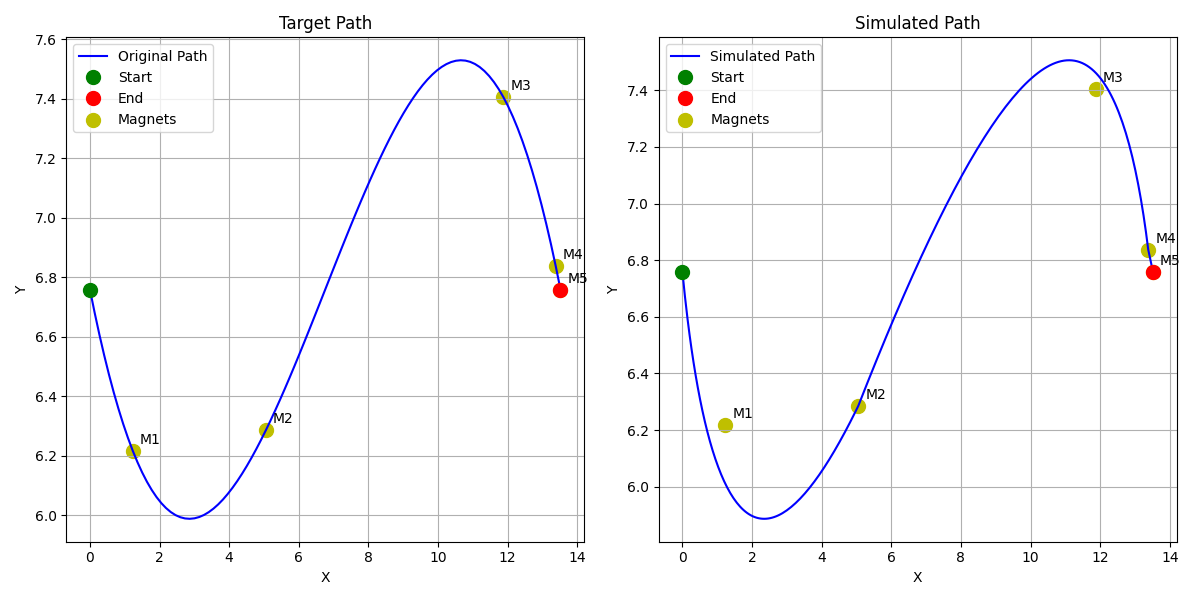
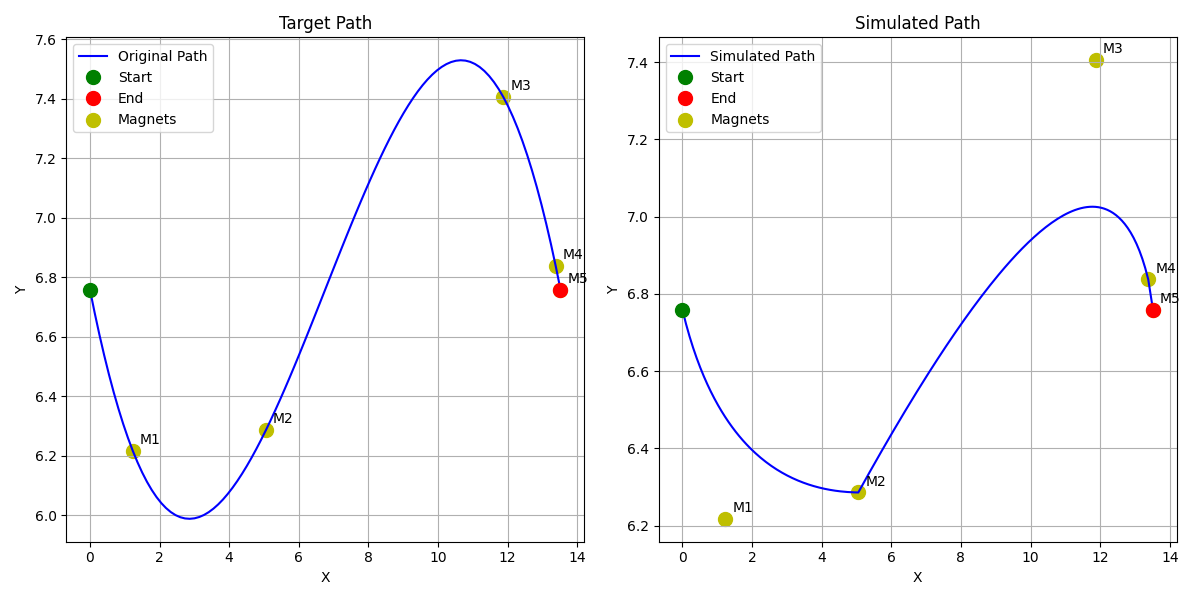
more fixes

diff --git a/chromosome.py b/chromosome.py
@@ -1,4 +1,4 @@
-from utils import MAX_STRENGTH, MASS, coordinate_percentage, round_based_on_value
+from utils import MAX_STRENGTH, MASS, smoothen_path
 
 import numpy as np
 from magnet import Magnet
@@ -14,41 +14,27 @@ class Chromosome:
             "magnets": [m.to_dict() for m in self.magnets],
         }
 
-    def calculate_curve_control_point(self, start, end, magnet):
+    def generate_arc(self, start, end, magnet, num_points=100):
         magnet_pos = np.array(magnet.to_tuple())
+        normalized_strength = magnet.magnetic_strength / MAX_STRENGTH
 
-        # Calculate the point on the line closest to the magnet
         line_vector = end - start
         t = np.dot(magnet_pos - start, line_vector) / np.dot(line_vector, line_vector)
-        t = max(0, min(1, t))  # Clamp t between 0 and 1
-        closest_point = start + t * line_vector
+        intersection_percent = np.clip(t, 0, 1)
 
-        direction_to_magnet = magnet_pos - closest_point
-        direction_to_magnet = direction_to_magnet / np.linalg.norm(direction_to_magnet)
+        closest_point = start + intersection_percent * line_vector
+        to_magnet = magnet_pos - closest_point
+        control_point = closest_point + normalized_strength * to_magnet
 
-        # Adjust curve based on magnet strength and distance
-        curve_factor = magnet.magnetic_strength / MAX_STRENGTH
-        distance_factor = 1 / (
-            1 + np.linalg.norm(magnet_pos - closest_point)
-        )  # Inverse distance
-        max_curve_distance = np.linalg.norm(end - start) / 2
-        curve_distance = curve_factor * distance_factor * max_curve_distance
-
-        # Calculate control point
-        control_point = closest_point + direction_to_magnet * curve_distance
-
-        return control_point, t
-
-    def generate_bezier_curve(self, start, control, end, num_points=100):
-        curve = []
+        arc_points = []
         for t in np.linspace(0, 1, num_points):
-            point = (1 - t) ** 2 * start + 2 * (1 - t) * t * control + t**2 * end
-            curve.append(point)
-        return curve
+            point = (1 - t) ** 2 * start + 2 * (1 - t) * t * control_point + t**2 * end
+            arc_points.append(point)
+
+        return smoothen_path(arc_points), intersection_percent
 
     def simulate_path(self, target_path):
         start = target_path[0]
-        end = target_path[-1]
         ball_pos = np.array(start)
         simulated_path = [ball_pos]
 
@@ -100,16 +86,12 @@ class Chromosome:
                         end_pos = simulated_path[-1]
                         curve_magnet = self.magnets[idx - 1]
 
-                        curve_control, percent = self.calculate_curve_control_point(
+                        curved_path, percent = self.generate_arc(
                             start_pos, end_pos, curve_magnet
                         )
 
                         duration = m.end_time - m.start_time
                         curve_end_time = (duration * percent) + m.start_time
-
-                        curved_path = self.generate_bezier_curve(
-                            start_pos, curve_control, end_pos
-                        )
 
                         start_idx = np.where((simulated_path == start_pos).all(axis=1))[
                             0
@@ -130,34 +112,3 @@ class Chromosome:
                 simulated_path.append(ball_pos.copy())
 
         return simulated_path
-
-        # for
-
-        # Calculate the bounding box of the target path
-        # x_min = min(point[0] for point in target_path)
-        # x_max = max(point[0] for point in target_path)
-        # y_min = min(point[1] for point in target_path)
-        # y_max = max(point[1] for point in target_path)
-
-        # margin = 0.1  # 10% margin
-        # x_range = x_max - x_min
-        # y_range = y_max - y_min
-        # x_min -= margin * x_range
-        # x_max += margin * x_range
-        # y_min -= margin * y_range
-        # y_max += margin * y_range
-
-        #         # Check if the ball has overshot the bounding box
-        #         if (
-        #             ball_pos[0] < x_min
-        #             or ball_pos[0] > x_max
-        #             or ball_pos[1] < y_min
-        #             or ball_pos[1] > y_max
-        #         ):
-        #             return simulated_path
-
-        #         if (
-        #             np.dot(ball_pos - np.array(end), np.array(end) - np.array(start))
-        #             >= 0
-        #         ):
-        #             return simulated_path

diff --git a/differential_model.py b/differential_model.py
@@ -8,8 +8,8 @@ import json
 
 class DifferentialModel:
     def __init__(self, target_path, magnet_attributes, time_step=0.01):
-        self.population_size = 10
-        self.F = 0.1  # Differential weight
+        self.population_size = 25
+        self.F = 0.7  # Differential weight
         self.CR = 0.8  # Crossover rate
         self.stagnation_limit = 10
 
@@ -30,7 +30,7 @@ class DifferentialModel:
                 {"generation": self.generation, "fitness": float(fitness_score)}
             )
 
-    def differential_evolution(self, max_generations=1):
+    def differential_evolution(self, max_generations=100):
         generations_without_improvement = 0
 
         for _ in range(max_generations):
@@ -42,7 +42,6 @@ class DifferentialModel:
             gen_best_individual = None
 
             for i in range(self.population_size):
-                print("population: ", i + 1)
                 r1, r2, r3 = random.sample(range(self.population_size), 3)
                 while r1 == i or r2 == i or r3 == i:
                     r1, r2, r3 = random.sample(range(self.population_size), 3)
@@ -63,10 +62,6 @@ class DifferentialModel:
 
                 next_population.append(next_individual)
 
-                if generations_without_improvement >= self.stagnation_limit:
-                    self.log(self.best_fitness, True)
-                    break
-
             self.population = next_population
 
             if gen_best_fitness > self.best_fitness:
@@ -75,6 +70,10 @@ class DifferentialModel:
                 generations_without_improvement = 0
             else:
                 generations_without_improvement += 1
+
+            if generations_without_improvement >= self.stagnation_limit:
+                self.log(self.best_fitness, True)
+                break
 
             self.log(self.best_fitness)
             visualize_results(self.target_path, self.best_individual, self.generation)
@@ -89,6 +88,14 @@ class DifferentialModel:
             )
 
             mutant.magnets[idx].magnetic_strength = max(0, new_strength)
+            mutant.magnets[idx].magnetic_strength = min(255, new_strength)
+
+            mutant.magnets[idx].x = r1.magnets[idx].x + self.F * (
+                (r2.magnets[idx].x - r3.magnets[idx].x) + random.uniform(-0.1, 0.1)
+            )
+            mutant.magnets[idx].y = r1.magnets[idx].y + self.F * (
+                (r2.magnets[idx].y - r3.magnets[idx].y) + random.uniform(-0.1, 0.1)
+            )
 
         return mutant
 
@@ -103,13 +110,17 @@ class DifferentialModel:
                     idx
                 ].magnetic_strength
 
+            if random.random() < self.CR:
+                trial.magnets[idx].x = mutant.magnets[idx].x
+
+            if random.random() < self.CR:
+                trial.magnets[idx].y = mutant.magnets[idx].y
+
         return trial
 
     def selection(self, target, trial):
         target_fitness = fitness_function(target, self.target_path)
         trial_fitness = fitness_function(trial, self.target_path)
-
-        print(target_fitness)
 
         if trial_fitness > target_fitness:
             return trial, trial_fitness

diff --git a/utils.py b/utils.py
@@ -197,11 +197,21 @@ def path_similarity(path1, path2):
     return similarity
 
 
+def curvature_similarity(path1, path2):
+    curvature1 = calculate_curvature(*zip(*path1))
+    curvature2 = calculate_curvature(*zip(*path2))
+    curvature_diff = np.abs(np.array(curvature1) - np.array(curvature2))
+    return 1 - np.mean(curvature_diff)
+
+
 def fitness_function(chromosome, target_path):
     simulated_path = chromosome.simulate_path(target_path)
     simulated_path = sample_along_path(simulated_path)
 
-    return path_similarity(target_path, simulated_path)
+    path_sim = path_similarity(target_path, simulated_path)
+    curve_sim = curvature_similarity(target_path, simulated_path)
+
+    return 0.5 * path_sim + 0.5 * curve_sim
 
 
 def annotate_magnets(ax, magnets):
@@ -244,51 +254,3 @@ def visualize_results(target_path, chromosome, generation):
     plt.savefig(f"results/{generation}.png")
     plt.close()
     print(f"Saved {generation}")
-
-
-# def fitness_function(chromosome, target_path):
-#     simulated_path = chromosome.simulate_path(target_path)
-
-#     # Sample the target path
-#     target_path = sample_along_path(target_path)
-
-#     # Handle case where simulated path is shorter
-#     if len(simulated_path) < len(target_path):
-#         # Pad the simulated path with its last point
-#         simulated_path = np.pad(
-#             simulated_path,
-#             ((0, len(target_path) - len(simulated_path)), (0, 0)),
-#             mode="edge",
-#         )
-#     else:
-#         # If simulated path is longer, truncate it
-#         simulated_path = sample_along_path(simulated_path, num_points=len(target_path))
-
-#     # Convert paths to numpy arrays
-#     target_arr = np.array(target_path)
-#     simulated_arr = np.array(simulated_path)
-
-#     # Calculate Euclidean distances between corresponding points
-#     distances = np.linalg.norm(target_arr - simulated_arr, axis=1)
-
-#     # Calculate the mean distance
-#     mean_distance = np.mean(distances)
-
-#     # Calculate the completion ratio
-#     completion_ratio = min(len(simulated_path) / len(target_path), 1.0)
-
-#     # Calculate the endpoint distance
-#     endpoint_distance = np.linalg.norm(target_arr[-1] - simulated_arr[-1])
-
-#     # Normalize the similarity score
-#     max_possible_distance = np.linalg.norm(np.ptp(target_arr, axis=0))
-#     path_similarity = 1 - (mean_distance / (max_possible_distance + 1e-5))
-
-#     # Combine factors into a final fitness score
-#     fitness = (
-#         0.5 * path_similarity
-#         + 0.3 * completion_ratio
-#         + 0.2 * (1 - endpoint_distance / max_possible_distance)
-#     )
-
-#     return fitness
